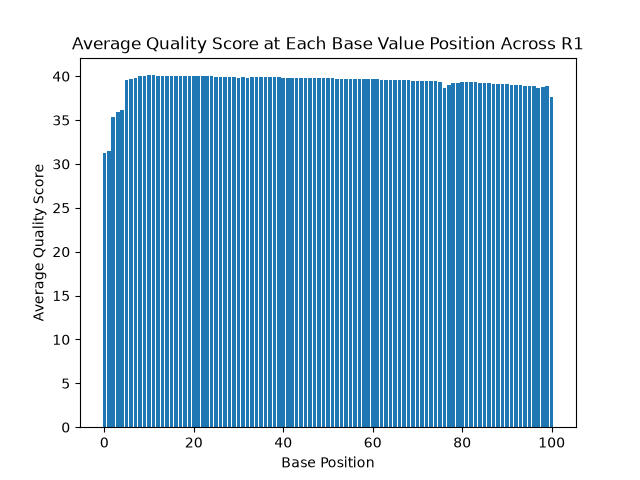
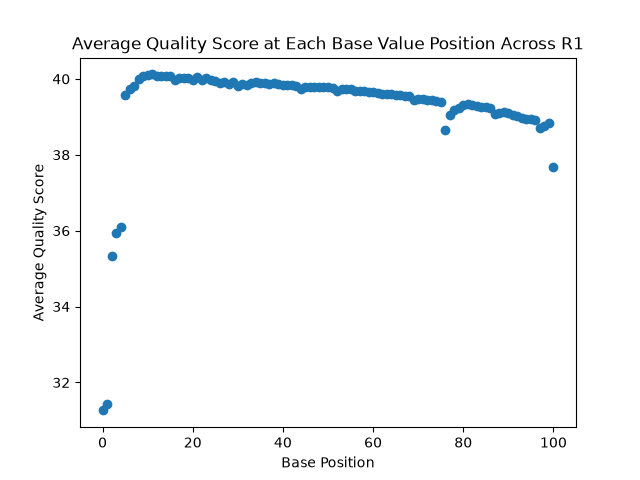
done with part 1

diff --git a/Assignment-the-first/demultiplex.py b/Assignment-the-first/demultiplex.py
@@ -2,6 +2,9 @@
 import bioinfo
 import gzip
 import argparse
+import itertools
+import math
+import numpy
 
 R1 = "/projects/bgmp/shared/2017_sequencing/1294_S1_L008_R1_001.fastq.gz"
 R2 = "/projects/bgmp/shared/2017_sequencing/1294_S1_L008_R2_001.fastq.gz"
@@ -9,10 +12,21 @@ R3 = "/projects/bgmp/shared/2017_sequencing/1294_S1_L008_R3_001.fastq.gz"
 R4 = "/projects/bgmp/shared/2017_sequencing/1294_S1_L008_R4_001.fastq.gz"
 indexes = "/projects/bgmp/shared/2017_sequencing/indexes.txt"
 
+def initialize_indexes(indexes):
+    with open(indexes, "r") as fi:
+        combinations = itertools.combinations(indexes, 2)
+        allIndexes = {}
+        for i in combinations:
+            key = "-".join(map(str, i))
+            allIndexes[key] = allIndexes.get(key, 0) + 1
+        print(len(allIndexes))
+        print(allIndexes)
+    return allIndexes
+
 def demultiplex(R1: str, R2: str, R3: str, R4: str, indexes: str, threshold: int):
-    readPairs = {}
-    hop = {}
-    unknown = {}
+    unknown = 0
+    hopped = 0
+
 
 def get_args():
     parser = argparse.ArgumentParser()
@@ -21,3 +35,4 @@ def get_args():
 
 if __name__ == "__main__":
     args = get_args()
+    initialize_indexes(indexes)

diff --git a/Assignment-the-first/qualityScoreDistribution.py b/Assignment-the-first/qualityScoreDistribution.py
@@ -40,7 +40,7 @@ def calculateDistribution():
         for i in range(len(perBaseQualityScore)):
             base_pos[i] = i
 
-        plt.bar(base_pos, perBaseQualityScore)
+        plt.scatter(base_pos, perBaseQualityScore)
         plt.title(f"Average Quality Score at Each Base Value Position Across {name}")
         plt.xlabel("Base Position")
         plt.ylabel("Average Quality Score")

diff --git a/Assignment-the-first/Answers.md b/Assignment-the-first/Answers.md
@@ -2,18 +2,25 @@
 
 ## Part 1
 1. Be sure to upload your Python script. Provide a link to it here:
+[qualityScoreDistribution.py](qualityScoreDistribution.py)
 
 | File name | label | Read length | Phred encoding |
 |---|---|---|---|
-| 1294_S1_L008_R1_001.fastq.gz |  |  |  |
-| 1294_S1_L008_R2_001.fastq.gz |  |  |  |
-| 1294_S1_L008_R3_001.fastq.gz |  |  |  |
-| 1294_S1_L008_R4_001.fastq.gz |  |  |  |
+| 1294_S1_L008_R1_001.fastq.gz | read1 | 101 | phred33 |
+| 1294_S1_L008_R2_001.fastq.gz | index1 | 8 | 33 |
+| 1294_S1_L008_R3_001.fastq.gz | index2 | 8 | 33 |
+| 1294_S1_L008_R4_001.fastq.gz | read2 | 101 | 33 |
 
 2. Per-base NT distribution
-    1. Use markdown to insert your 4 histograms here.
-    2. **YOUR ANSWER HERE**
-    3. **YOUR ANSWER HERE**
+    1. [I1.png](I1.png) [I2.png](I2.png) [R1.png](R1.png) [R2.png](R2.png) 
+    2. I think a Q30 cutoff score is very reasonable for this Illumina data. A Q30 is a 99.9% accuracy rate. Since the indexes are very short, a higher quality cutoff of at least 30 must be used to minimize the amount of errors that could contaminate downstream analysis. A Q40 cutoff is too strict for this. Based on the average quality score distribution, a Q30 cutoff makes sense since it includes the mean quality score of all positions (lots of data + gets rid of horrible outliers).
+    3. Index (for R1) with N base calls: 3976613
+       Index (for R2) with N base calls: 3328051
+       Commands used:
+       ```
+       zcat /projects/bgmp/shared/2017_sequencing/1294_S1_L008_R3_001.fastq.gz | grep -A 1 "^@" | grep -v "^@" | grep -c "N"
+       zcat /projects/bgmp/shared/2017_sequencing/1294_S1_L008_R2_001.fastq.gz | grep -A 1 "^@" | grep -v "^@" | grep -c "N"
+       ```
     
 ## Part 2
 1. Define the problem

diff --git a/Assignment-the-first/pseudocode.md b/Assignment-the-first/pseudocode.md
@@ -18,14 +18,14 @@ Output: TGCA
 
 def phred(index):
     '''takes in an index and returns True if any character is below the threshold quality score'''
-    return True/False
+    return index
 Input: J
 Output: 41
 Input: #
 Output: 2 
 
 
-def initialize_indexes(R1, R2, R3, R4):
+def initialize_indexes(indexes.txt):
     '''initialize dictionary with every valid index pair'''
     itertools to create the combinations of everything initialize dictionary all values at 0
     return dict
@@ -43,12 +43,7 @@ def demultiplex(R1, R2, R3, R4, quality_score_cutoff):
 
         reverse_complement(R3 index)
 
-        if R2 index not in indexes or R3 index not in indexes:
-            unknown += 1
-            write R1 and R4 to unknown FASTQ
-            continue
-
-        if R2 index contains "N" or R3 index contains "N":
+        if R2 index not in indexes or R3 index not in indexes or either contain "N":
             unknown += 1
             write R1 and R4 to unknown FASTQ
             continue
@@ -69,6 +64,8 @@ def demultiplex(R1, R2, R3, R4, quality_score_cutoff):
             write R1 and R4 to index hopping FASTQ
             add R2Index-R3Index to header
 
-    return dictionary, unknown
+    calculate percentages
+    return dictionary, unknown, percentages
+
 
 ```

diff --git a/Assignment-the-first/README.md b/Assignment-the-first/README.md
@@ -31,6 +31,13 @@ Please fill in your answers on [Answers.md](Answers.md)
 
 ## Part 1 – Quality Score Distribution per-nucleotide
 1.	Perform some initial data exploration! Record any bash commands you used inside a lab notebook (submit to this repo!).
+
+zcat /projects/bgmp/shared/2017_sequencing/1294_S1_L008_R3_001.fastq.gz | head -2
+zcat 1294_S1_L008_R4_001.fastq.gz | head -6
+zcat 1294_S1_L008_R1_001.fastq.gz | head -6
+zcat 1294_S1_L008_R3_001.fastq.gz | head -6
+zcat 1294_S1_L008_R2_001.fastq.gz | head -6
+
     1. Determine which files contain the indexes, and which contain the paired end reads containing the biological data of interest. Create a table and label each file with either read1, read2, index1, or index2.
     2. Determine the length of the reads in each file.
     3. Determine the phred encoding for these data.
